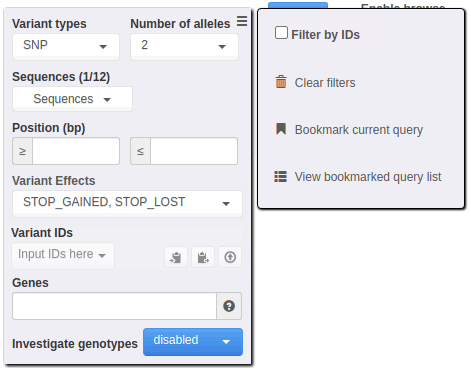
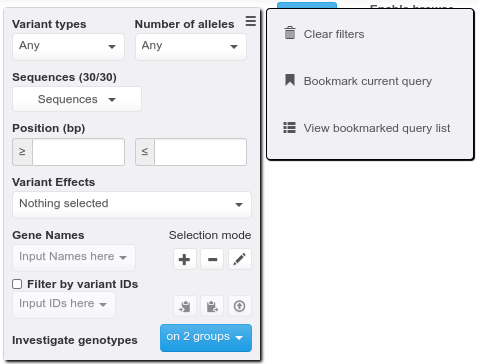
Updated documentation

diff --git a/src/main/webapp/docs/gigwa_docs.html b/src/main/webapp/docs/gigwa_docs.html
@@ -16,7 +16,7 @@
       <P ALIGN=CENTER
          STYLE="margin-bottom: 0in; line-height: 100%;">
          <FONT FACE="Arial, sans-serif"><FONT SIZE=6
-            class='maintitle'>Gigwa v2.6.x &ndash; Documentation</FONT></FONT>
+            class='maintitle'>Gigwa v2.7.x &ndash; Documentation</FONT></FONT>
       </P>
       <p style='float:right; text-align:center; margin-top:20px; margin-right:20px; background-color:#f2f288; padding:15px; border:2px dashed #d5d800; border-radius:15px;'>
          <b>Learn how to use Gigwa like a pro in a few minutes!</b>
@@ -134,7 +134,7 @@
                <P STYLE="margin-top: 0.03in; margin-bottom: 0in; line-height: 100%; page-break-inside: avoid; page-break-after: avoid">
                   <FONT COLOR="#1f4d78"><FONT FACE="Arial, sans-serif"><FONT SIZE=3>A2.1/ GENERAL FILTERING FEATURES</FONT></FONT></FONT>
                </P>
-               <IMG SRC="shot02_variant_filters.png" BORDER=0 style='float:right; width:274px; margin-top:-30px; margin-left:10px;'>
+               <IMG SRC="shot02_variant_filters.png" BORDER=0 style='float:right; width:275px; margin-top:-30px; margin-left:10px;'>
                <P STYLE="margin-bottom: 0.14in">By default, a single grey filter panel appears, providing means to select variants based on their inherent attributes:
                </P>
                <UL>
@@ -148,11 +148,11 @@
                      <P STYLE="margin-bottom: 0in; line-height: 100%">if applicable, number of known alleles (when several are represented);
                      </P>
                   <LI>
-                     <P STYLE="margin-bottom: 0in; line-height: 100%">if applicable, functional annotations (if the data was provided as a SnpEff or VEP-annotated VCF file).
+                     <P STYLE="margin-bottom: 0in; line-height: 100%">if applicable, functional annotations (if the data was provided as a SnpEff or VEP-annotated VCF file), with gene selection eased by a lookup functionality.
                      </P>
                </UL>
                <P STYLE="margin-bottom: 0.14in">
-               From version 2.5, users may also choose to select variants by IDs, by switching into a mode which is an alternative to using a combination of other filters (accessible from a checkbox in the hamburger menu). Variant selection is then supported via a dropdown with text lookup, clipboard pasting, or the providing of a local file.
+               Users may also choose to select variants by IDs, by switching into a mode which is an alternative to using a combination of other filters. Variant selection is then supported via a dropdown with text lookup, clipboard pasting, or the providing of a local file.
                <br/><br/>
                As a general rule, a filter widget where no selection has been made will behave as if all its items were selected (no filtering applied on that field).
                </P>
@@ -162,15 +162,14 @@
                <P STYLE="margin-top: 0.03in; margin-bottom: 0in; line-height: 100%; page-break-inside: avoid; page-break-after: avoid">
                   <FONT COLOR="#1f4d78"><FONT FACE="Arial, sans-serif"><FONT SIZE=3>A2.2/ GROUP COMPARISON</FONT></FONT></FONT>
                </P>
-               <IMG SRC="shot03_genotype_filters.png" BORDER=0 style='float:right; width:278px; margin-top:50px; margin-left:10px;'>
-               <P STYLE="margin-bottom: 0.14in">At the bottom of this panel, a dropdown button may be used to display one or two additional panels
-                  that allow for more advanced filtering features based on one or two subsets of individuals referred to as groups.
+               <IMG SRC="shot03_genotype_filters.png" BORDER=0 style='float:right; width:273px; margin-top:50px; margin-left:10px;'>
+               <P STYLE="margin-bottom: 0.14in">At the bottom of this panel, a dropdown may be used to display up to ten additional panels
+                  that allow for more advanced filtering features based on subsets of individuals referred to as groups.
                </P>
-               <P STYLE="margin-bottom: 0.14in">Both of these panels have the
+               <P STYLE="margin-bottom: 0.14in">All of these panels have the
                   same contents and each one lets users select a list of individuals
-                  (thus defining groups 1 and 2). Additionally, some handy tools are
-                  available on the right side of the "Individuals" drop
-                  down menu as tooltipped icons:
+                  (thus defining group contents). Additionally, some handy tools are
+                  available on the right side of the "Individuals" dropdown via tooltipped icons:
                </P>
                <UL>
                   <LI>
@@ -220,15 +219,15 @@
                      </P>
                </UL>
      	    <P LANG="fr-FR" STYLE="margin-bottom: 0.14in">
-    	        <SPAN LANG="en-US"><U><B>Useful tip:</B></U></SPAN><SPAN LANG="en-US"> To identify variants for which genotypes are steady within each group but different between them, set both
+    	        <SPAN LANG="en-US"><U><B>Useful tip:</B></U></SPAN><SPAN LANG="en-US"> To identify variants for which genotypes are steady within groups but different between two of them, set both
     	        groups' genotype pattern to "All or mostly the same". In this case, in each group panel a similarity ratio
-    	        lets you specify how many of the current group's selected individuals must have the same genotype. Additionally, checking the "Discriminate groups"
-    	        box will ensure that the most frequent genotype in group 1 is different from that in group 2. See online video number 4 for a demonstration.</SPAN>
+    	        lets you specify how many of the current group's selected individuals must have the same genotype. Additionally, setting the "Discriminate with" widget to point to another group
+    	        will ensure that the most frequent genotype in the first group is different from that in the second one. See online video number 4 for a demonstration.</SPAN>
      	    </P>
      	    <P STYLE="margin-bottom: 0.14in">Note that genotype-level filters are applied in the order they appear: the maximum missing data filter applies first, taking into account truly missing data
       	      and genotypes treated as missing because of low quality. MAF &amp; heterozygosity ratios and genotype pattern queries are then applied at the same time, on the remaining (non-missing) genotypes only.
 	  	 	</P>
-     	    <P STYLE="margin-bottom: 0.24in"><u>NB:</u> When working on multi-run projects featuring several samples for a same individual, the following consistency rule had to be defined to be able to apply genotype patterns: for a given individual and variant, if a most frequent genotype exists, it is the one accounted for, otherwise, this data-point is treated as missing.
+     	    <P STYLE="margin-bottom: 0.24in"><u>NB:</u> When working on multi-run projects featuring several samples for a same individual, the following consistency rule had to be defined to be able to apply genotype patterns: for a given individual and variant, if a single most frequent genotype exists, it is the one accounted for, otherwise, this data-point is treated as missing.
       	   	</P>
          </UL>
          <UL>
@@ -236,7 +235,7 @@
                <P STYLE="margin-top: 0.03in; margin-bottom: 0in; line-height: 100%; page-break-inside: avoid; page-break-after: avoid">
                   <FONT COLOR="#1f4d78"><FONT FACE="Arial, sans-serif"><FONT SIZE=3>A2.3/ BOOKMARKING QUERIES</FONT></FONT></FONT>
                </P>
-               <IMG SRC="shot03bis_bookmarks.png" BORDER=0 style='float:right; width:471px; margin-top:-30px; margin-left:10px;'>
+               <IMG SRC="shot03bis_bookmarks.png" BORDER=0 style='float:right; width:479px; margin-top:-30px; margin-left:10px;'>
                <P STYLE="margin-bottom: 0.14in">After executing a query, any logged-in user may bookmark it from the hamburger menu. Each bookmarked query needs to be given a name and thus users may:
                </P>
                <UL style="height:240px;">
